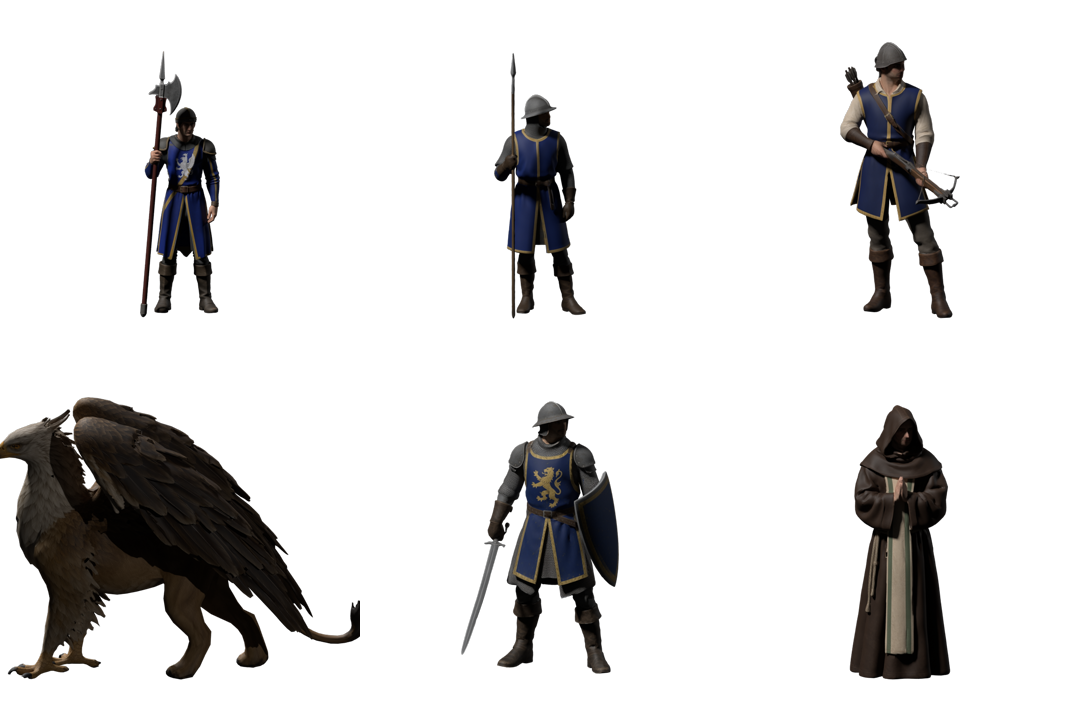
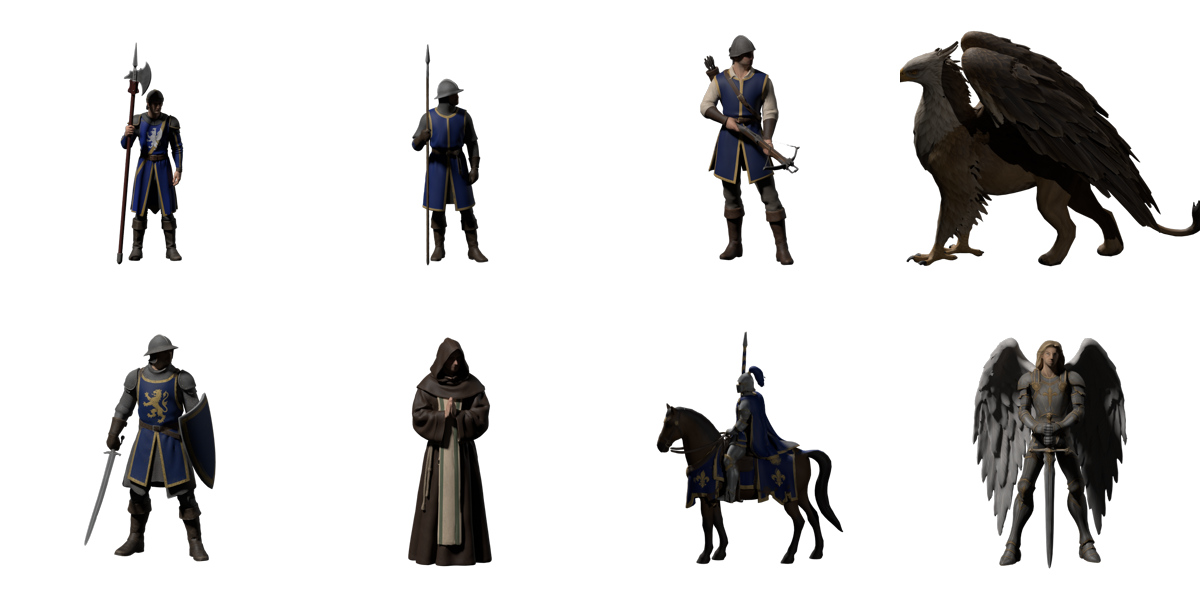
blog: add Cavalier and Angel Castle mesh reviews

diff --git a/content/posts/castle-halberdier-bootstrap.md b/content/posts/castle-halberdier-bootstrap.md
@@ -3,21 +3,21 @@ title: "[AI] Castle roster bootstrap"
 date: 2026-09-16T17:10:00+08:00
 series: ["Enhancing Heroes III with Generative AI"]
 ai: true
-homeSummary: "Castle creature modelling has begun with six independently reviewed base meshes. The Halberdier and Pikeman have local rigs and holding/walking reviews; Archer shooting, Griffin flight, Swordsman weapon work and Monk spell gestures are still under local animation review. No Castle unit is installed in the game."
+homeSummary: "Castle creature modelling has begun with eight independently reviewed base meshes. The Halberdier and Pikeman have local rigs and holding/walking reviews; Archer shooting, Griffin flight, Swordsman weapon work, Monk spell gestures, Cavalier charge and Angel flight are still under local animation review. No Castle unit is installed in the game."
 tags: ["vcmi", "ai", "graphics", "blender", "meshy", "castle"]
 ---
 
-The first Castle batch covers six base units: Halberdier, Pikeman, Archer, Griffin, Swordsman and Monk. They span long held equipment, a two-handed light crossbow, a winged quadruped, shield-and-sword combat, and an unarmed spellcaster. Each asset needs its own mesh and its own animation constraints.
+The first Castle batch now has eight independently reviewed meshes: Halberdier, Pikeman, Archer, Griffin, Swordsman, Monk, Cavalier and Angel. They span long held equipment, a two-handed light crossbow, a winged quadruped, shield-and-sword combat, and an unarmed spellcaster. Each asset needs its own mesh and its own animation constraints.
 
 ![Three-quarter concept for the Castle Halberdier](/images/castle-halberdier-01/concept-34.png)
 
 The concept fixes the features that need to survive generation: blue-and-gold tabard, brown boots, uncovered face under a steel cap, and a halberd held vertically at the left side. It is a reference for construction rather than an in-game image.
 
-## First six base meshes
+## First eight meshes
 
-![Six independently reviewed Castle mesh bootstraps: Halberdier, Pikeman, Archer, Griffin, Swordsman and Monk](/images/castle-halberdier-01/roster-bootstrap-01.png)
+![Eight independently reviewed Castle mesh bootstraps: Halberdier, Pikeman, Archer, Griffin, Swordsman, Monk, Cavalier and Angel](/images/castle-halberdier-01/roster-bootstrap-01.png)
 
-The six models were generated from separate reviewed concepts and then checked from eight Blender angles. The Halberdier and Pikeman are now past the first local rig stage: both have holding and walking review sequences at their original 450×400 canvas. The Archer holds its crossbow in the static and holding review, but its first raised-shooting test exposed separated sleeve topology and was rejected. The Griffin, Swordsman and Monk have accepted mesh reviews and move on to creature-specific local rigs.
+The eight models were generated from separate reviewed concepts and then checked from eight Blender angles. The Halberdier and Pikeman are now past the first local rig stage: both have holding and walking review sequences at their original 450×400 canvas. The Archer holds its crossbow in the static and holding review, but its first raised-shooting test exposed separated sleeve topology and was rejected. The Griffin, Swordsman and Monk have accepted mesh reviews and move on to creature-specific local rigs.
 
 | Unit | reviewed state |
 | --- | --- |
@@ -27,6 +27,8 @@ The six models were generated from separate reviewed concepts and then checked f
 | Griffin | mesh review; wing and ground rig next |
 | Swordsman | mesh review; sword and shield rig next |
 | Monk | mesh review; hand-gesture and spell rig next |
+| Cavalier | mesh review; mounted and charge rig next |
+| Angel | mesh review; flight and two-handed-sword rig next |
 
 ## Meshy mesh
 

diff --git a/content/posts/castle-halberdier-bootstrap.zh.md b/content/posts/castle-halberdier-bootstrap.zh.md
@@ -3,21 +3,21 @@ title: "[AI]城堡兵种建模"
 date: 2026-09-16T17:10:00+08:00
 series: ["用生成式ai增强英雄无敌3"]
 ai: true
-homeSummary: "城堡兵种建模已完成六个独立底模的审查。长戟兵和枪兵已有本地骨架与待机、行走审查；轻弩兵射击、狮鹫飞行、剑士武器和僧侣手势仍在本地动画审查。还没有任何城堡兵种装进游戏。"
+homeSummary: "城堡兵种建模已完成八个独立底模的审查。长戟兵和枪兵已有本地骨架与待机、行走审查；轻弩兵射击、狮鹫飞行、剑士武器、僧侣手势、骑士冲锋和天使飞行仍在本地动画审查。还没有任何城堡兵种装进游戏。"
 tags: ["vcmi", "ai", "graphics", "blender", "meshy", "castle"]
 ---
 
-城堡第一批做六种基础兵：长戟兵、枪兵、弓箭手、狮鹫、剑士和僧侣。它们分别涉及长兵器、双手轻弩、带翼四足、盾剑，以及空手施法；每种都需要独立网格和独立的动作约束。
+城堡第一批目前已有八个独立底模：长戟兵、枪兵、弓箭手、狮鹫、剑士、僧侣、骑士和天使。它们分别涉及长兵器、双手轻弩、带翼四足、盾剑，以及空手施法；每种都需要独立网格和独立的动作约束。
 
 ![长戟兵三分之四概念稿](/images/castle-halberdier-01/concept-34.png)
 
 概念稿固定蓝金长袍、棕色长靴、钢盔下露出的脸，以及左侧竖直拿着的长戟。它是 Meshy 建模时的参考，不是游戏素材。
 
-## 六个基础底模
+## 八个基础底模
 
-![六个独立审查过的城堡底模：长戟兵、枪兵、弓箭手、狮鹫、剑士、僧侣](/images/castle-halberdier-01/roster-bootstrap-01.png)
+![八个独立审查过的城堡底模：长戟兵、枪兵、弓箭手、狮鹫、剑士、僧侣、骑士、天使](/images/castle-halberdier-01/roster-bootstrap-01.png)
 
-六个模型都先各自生成概念，再用 Blender 八个角度审查。长戟兵和枪兵已经进入第一轮本地骨架：两者都有原始 450×400 画布上的待机与行走审查。弓箭手的轻弩在静态和待机里保持完整，但第一次抬弩射击时衣袖拓扑分离，已经拒绝。狮鹫、剑士和僧侣的网格通过审查，接下来分别做非人形翼部/地面骨架、盾剑骨架和手势施法骨架。
+八个模型都先各自生成概念，再用 Blender 八个角度审查。长戟兵和枪兵已经进入第一轮本地骨架：两者都有原始 450×400 画布上的待机与行走审查。弓箭手的轻弩在静态和待机里保持完整，但第一次抬弩射击时衣袖拓扑分离，已经拒绝。狮鹫、剑士和僧侣的网格通过审查，接下来分别做非人形翼部/地面骨架、盾剑骨架和手势施法骨架。
 
 | 兵种 | 已审查状态 |
 | --- | --- |
@@ -27,6 +27,8 @@ tags: ["vcmi", "ai", "graphics", "blender", "meshy", "castle"]
 | 狮鹫 | 网格通过；下一步做翼部和地面骨架 |
 | 剑士 | 网格通过；下一步做剑和盾骨架 |
 | 僧侣 | 网格通过；下一步做手势和施法骨架 |
+| 骑士 | 网格通过；下一步做骑乘和冲锋骨架 |
+| 天使 | 网格通过；下一步做飞行和双手剑骨架 |
 
 ## Meshy 网格
 
